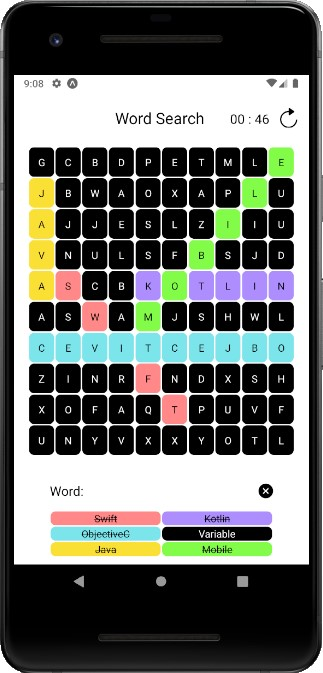
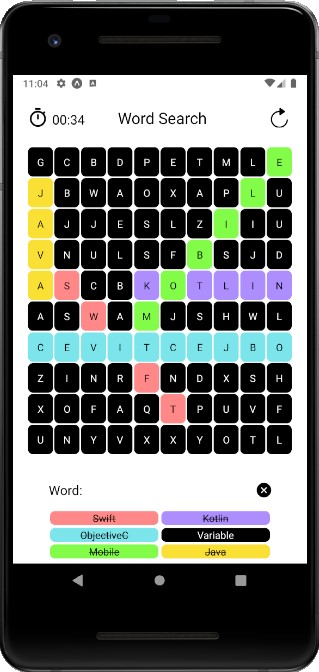
Timer

diff --git a/components/Grid.js b/components/Grid.js
@@ -11,7 +11,7 @@ import {
     ScrollView
 } from 'react-native'
 
-import { Ionicons } from '@expo/vector-icons';
+import { Ionicons, MaterialIcons } from '@expo/vector-icons';
 
 import Tile from '../components/Tile'
 import List from '../components/List'
@@ -145,29 +145,30 @@ const Grid = props => {
                 {correct.length !== correctAnswers.length ?
                     <View style={{ flex: 1, flexDirection: 'column' }}>
                         <View style={styles.header}>
+                            <MaterialIcons
+                                name="timer"
+                                size={30}
+                                color="black"
+                            />
+                            <Text style={styles.timer}>{`${mins}:${secs}`}</Text>
                             <Header title="Word Search" />
-                            <View style={styles.secondHeader}>
-                                <Text style={styles.timer}>{`${mins} : ${secs}`}</Text>
-                                <View style={styles.iconHeader}>
-                                    <Ionicons
-                                        name="ios-refresh"
-                                        size={32}
-                                        color="black"
-                                        onPress={() => {
-                                            updatedString("");
-                                            setSelectedLetters([]);
-                                            setCorrectedLetters([])
-                                            setCorrectAnswers([])
-                                            setColorLetters(new Map());
-                                            colorIndex = 0;
-                                            setRemainingSecs(0);
-                                            setIsActive(false);
-                                            // console.log(search.grid.forEach(function (row) { console.log(row.join(' ')); }))
-                                            reset(search)
-                                        }}
-                                    />
-                                </View>
-                            </View>
+                            <Ionicons
+                                name="ios-refresh"
+                                size={32}
+                                color="black"
+                                onPress={() => {
+                                    updatedString("");
+                                    setSelectedLetters([]);
+                                    setCorrectedLetters([])
+                                    setCorrectAnswers([])
+                                    setColorLetters(new Map());
+                                    colorIndex = 0;
+                                    setRemainingSecs(0);
+                                    setIsActive(false);
+                                    // console.log(search.grid.forEach(function (row) { console.log(row.join(' ')); }))
+                                    reset(search)
+                                }}
+                            />
                         </View>
                         <View style={{ flex: 1, flexDirection: 'row' }}>
                             <View style={styles.landscapeContainer, { height: height / 1.3, width: height / 1.2 }}>
@@ -273,29 +274,30 @@ const Grid = props => {
                     <View>
                         <View style={{ flex: 1, flexDirection: 'column' }}>
                             <View style={styles.header}>
+                                <MaterialIcons
+                                    name="timer"
+                                    size={30}
+                                    color="black"
+                                />
+                                <Text style={styles.timer}>{`${mins}:${secs}`}</Text>
                                 <Header title="Word Search" />
-                                <View style={styles.secondHeader}>
-                                    <Text style={styles.timer}>{`${mins} : ${secs}`}</Text>
-                                    <View style={styles.iconHeader}>
-                                        <Ionicons
-                                            name="ios-refresh"
-                                            size={32}
-                                            color="black"
-                                            onPress={() => {
-                                                updatedString("");
-                                                setSelectedLetters([]);
-                                                setCorrectedLetters([])
-                                                setCorrectAnswers([]);
-                                                setColorLetters(new Map());
-                                                colorIndex = 0;
-                                                setRemainingSecs(0);
-                                                setIsActive(false);
-                                                // console.log(search.grid.forEach(function (row) { console.log(row.join(' ')); }))
-                                                reset(search)
-                                            }}
-                                        />
-                                    </View>
-                                </View>
+                                <Ionicons
+                                    name="ios-refresh"
+                                    size={32}
+                                    color="black"
+                                    onPress={() => {
+                                        updatedString("");
+                                        setSelectedLetters([]);
+                                        setCorrectedLetters([])
+                                        setCorrectAnswers([]);
+                                        setColorLetters(new Map());
+                                        colorIndex = 0;
+                                        setRemainingSecs(0);
+                                        setIsActive(false);
+                                        // console.log(search.grid.forEach(function (row) { console.log(row.join(' ')); }))
+                                        reset(search)
+                                    }}
+                                />
                             </View>
                             <View style={styles.container, { height: height / 1.56 }}>
                                 <FlatList
@@ -432,13 +434,15 @@ const styles = StyleSheet.create({
     header: {
         flexDirection: 'row',
         height: 80,
-        width: '65%',
+        width: '70%',
         paddingTop: 36,
         alignItems: 'center',
         // justifyContent: '',
         paddingBottom: 36,
-        paddingLeft: 65,
-        marginHorizontal: 30,
+        // paddingLeft: 65,
+        // marginHorizontal: 30,
+        // backgroundColor: 'yellow',
+        justifyContent: 'space-between'
     },
     iconHeader: {
         marginRight: 10,
@@ -459,6 +463,7 @@ const styles = StyleSheet.create({
         alignContent: 'center',
         justifyContent: 'center',
         marginTop: 5,
+        marginLeft: 5,
         fontSize: 18
     }
 });

diff --git a/components/Header.js b/components/Header.js
@@ -18,7 +18,8 @@ const styles = StyleSheet.create({
         paddingTop: 36,
         alignItems: 'center',
         justifyContent: 'center',
-        paddingBottom: 36
+        paddingBottom: 36,
+        paddingRight: 43
     },
     headerTitle: {
         color: 'black',

diff --git a/components/List.js b/components/List.js
@@ -59,7 +59,7 @@ const styles = StyleSheet.create({
         alignItems: 'center',
         justifyContent: 'center',
         flex: 1,
-        margin: 1,
+        margin: 2,
         borderRadius: 7,
     },
 });

diff --git a/README.md b/README.md
@@ -17,6 +17,8 @@ Type these commands into your command line to reproduce:
 2. `npm start` or `expo start` to start the server
 3. `a` or `i` to open the app on an android or an iOS emulator respectively
 
+(If you do not have android emulator installed, just install the expo app on your phone and scan the QR code generated on running expo start)
+
 ## Tasks
 - [X] Create an Android/iOS word search mobile app
 - [X] The word search should have a 10x10 grid
@@ -56,7 +58,7 @@ The active score counter is in the form of the items in the list which are highl
 
 
 ### Game Over Screen
-The third screenshot shows the screen where the user has found all the words. (Fix on opacity=0.2 needed) 
+The third screenshot shows the screen where the user has found all the words. (Fix on opacity=0.2 needed, old screenshot) 
 
 <p align="left">
   <img alt="" src="screenshots/end1.jpg" width="360" /><br>
